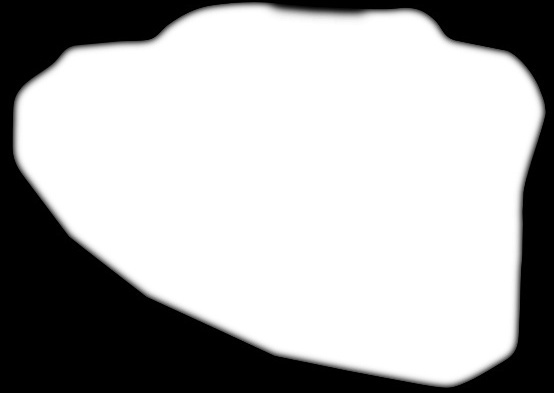
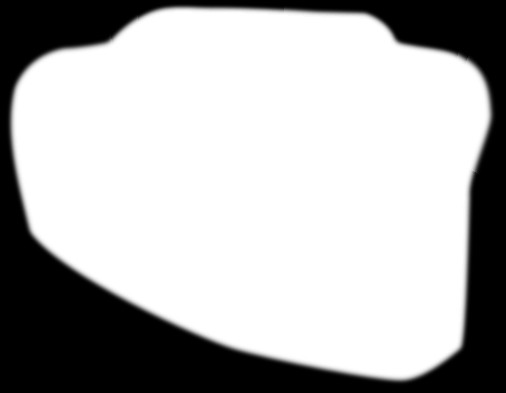
Made trollface more symmetrical

Changed region(s): [[0.0, 0.0916, 0.5336, 0.916], [0.5632, 0.1832, 1.0, 1.0], [0.2075, 0.0, 0.9486, 0.1832]]

diff --git a/test.py b/test.py
@@ -4,6 +4,6 @@ tree = ET.parse('data/trollface_landmarks.xml')
 root = tree.getroot()
 
 for p in root.iter('part'):
-    p.attrib['y'] = str(int(p.attrib['y']) - 52)
+    p.attrib['x'] = str(int(p.attrib['x']) + 1)
 
-tree.write('trollface_landmarks_newer.xml')
+tree.write('data/trollface_landmarks.xml')
